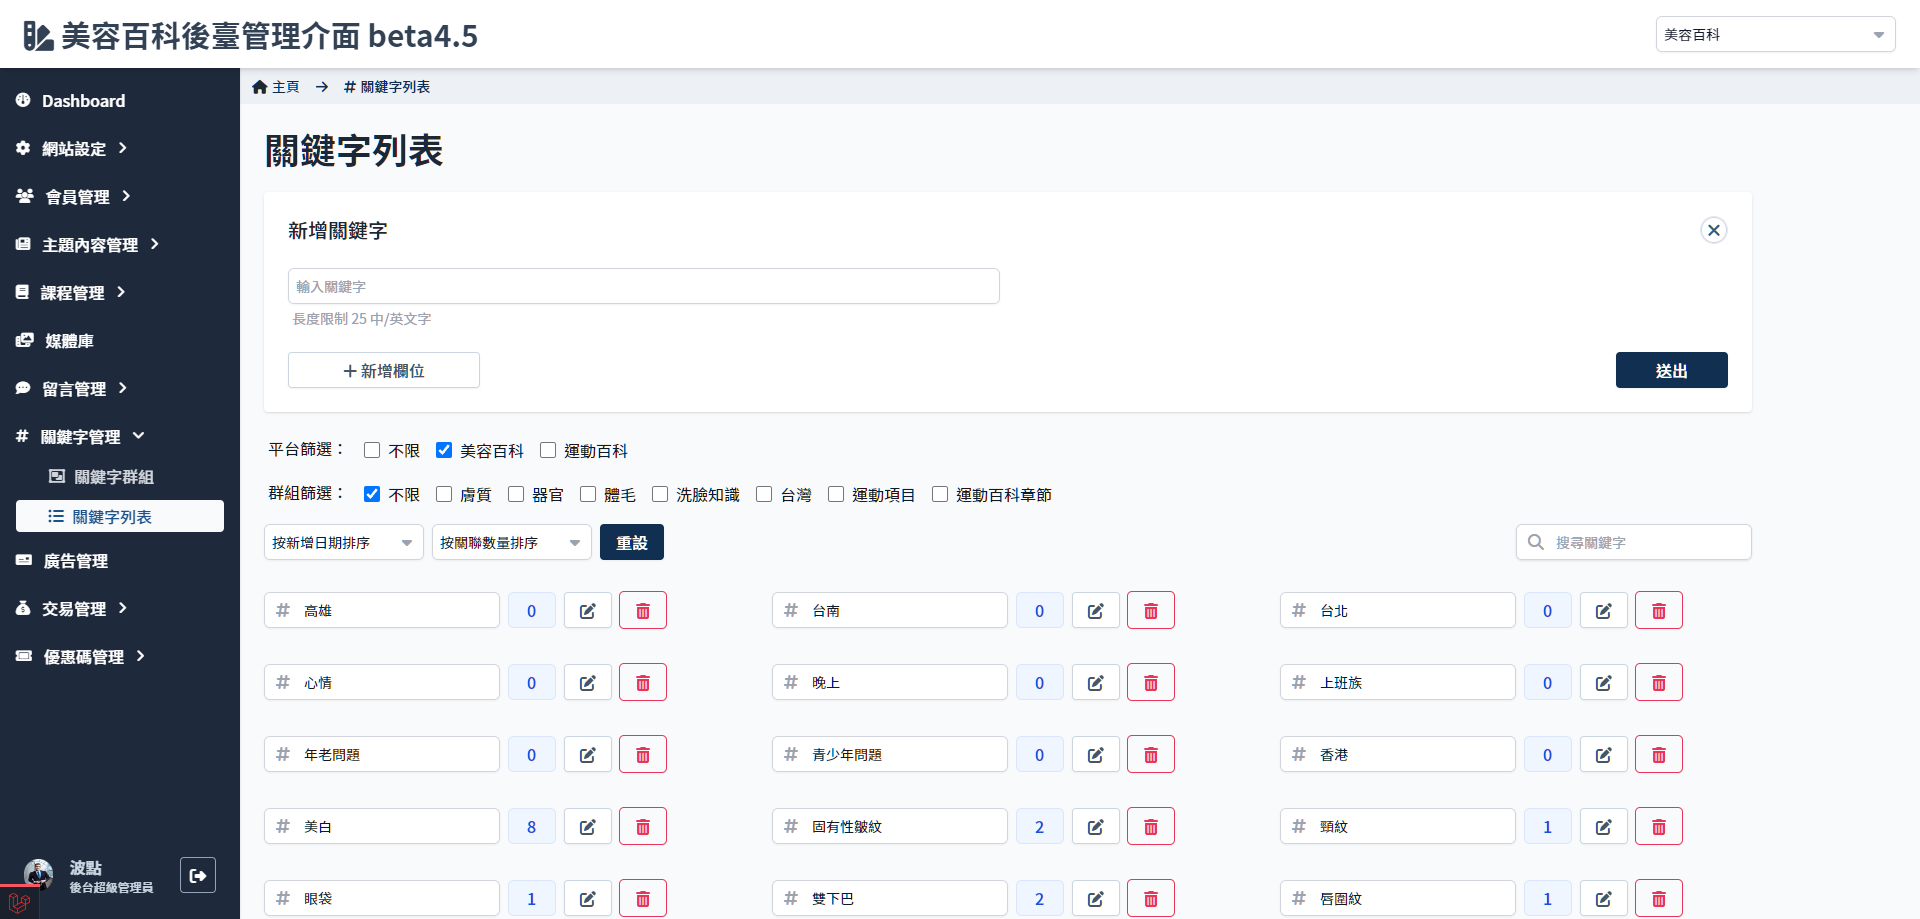
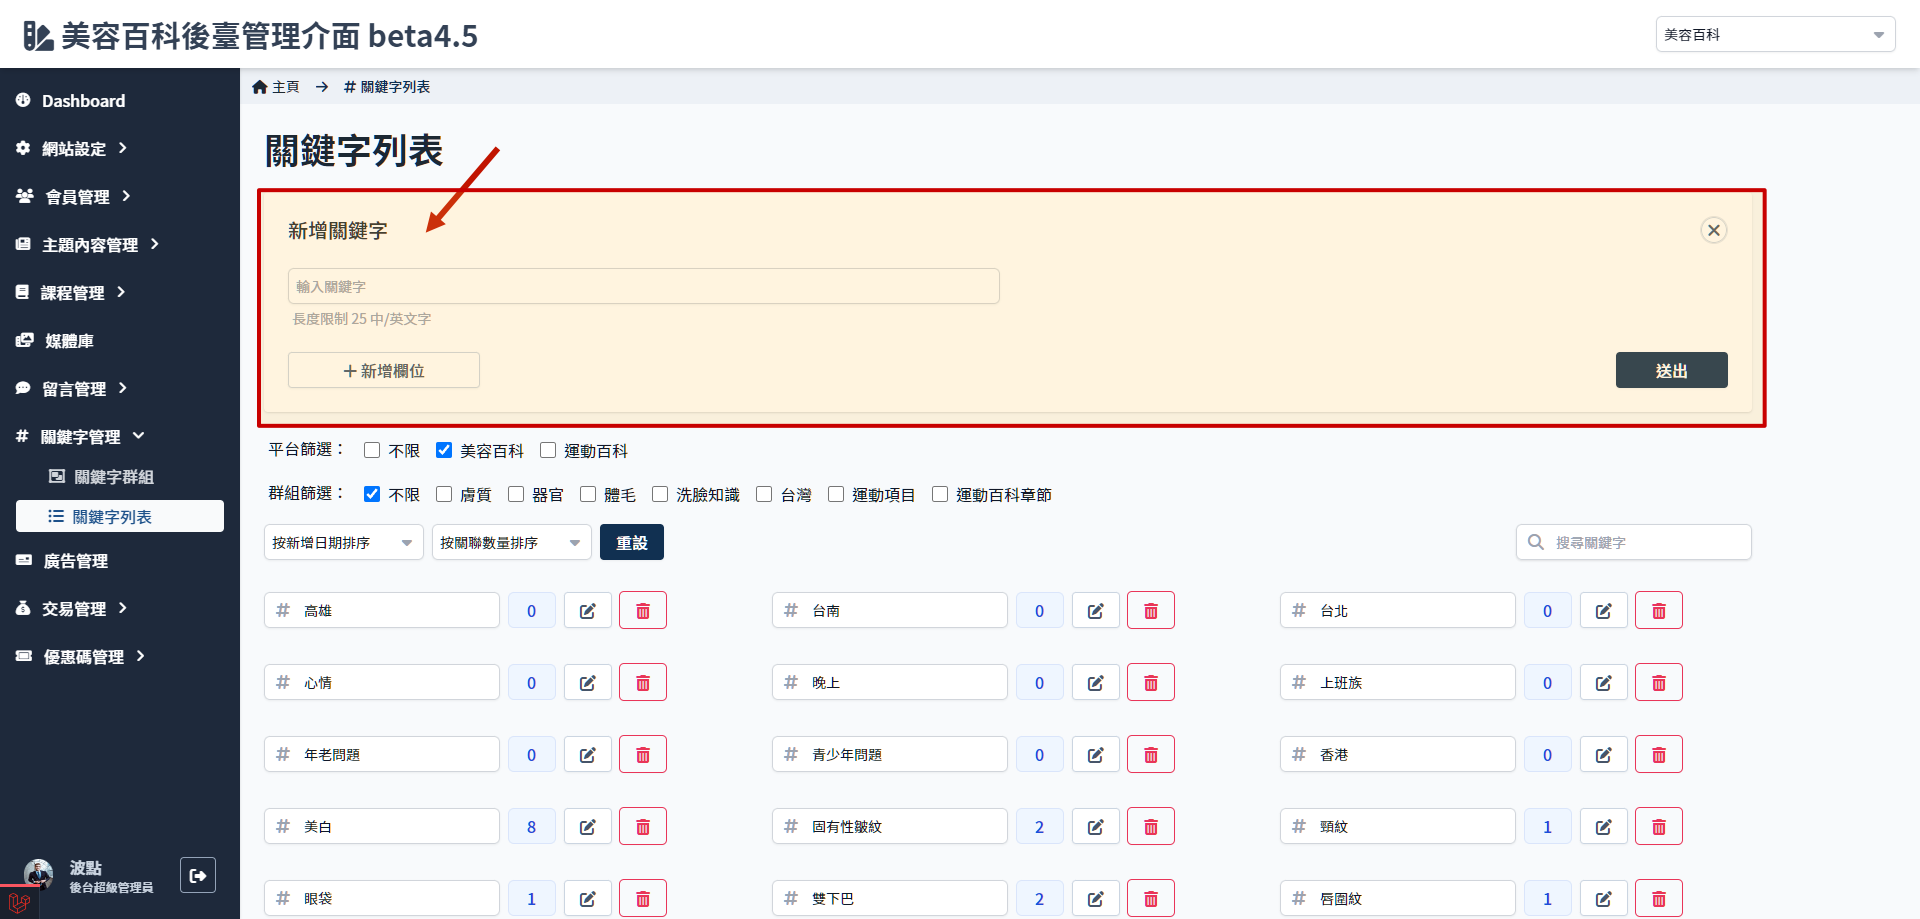
add keyword

Changed region(s): [[0.125, 0.1523, 0.9375, 0.4875]]

diff --git a/docs/beauty/keyword/edit-keyword.md b/docs/beauty/keyword/edit-keyword.md
@@ -1,6 +1,22 @@
 ---
 title: 編輯關鍵字名稱
-sidebar_position: 2.2
+sidebar_position: 1.2
 ---
 
 # 編輯關鍵字名稱
+
+可隨時編輯修改關鍵字名稱，但名稱不可重複。
+
+1. 進入關鍵字列表，點擊 `編輯`
+   ![編輯關鍵字名稱](img/edit-keyword-01.png)
+
+2. 修改名稱
+   ![編輯關鍵字名稱](img/edit-keyword-02.png)
+
+3. 點擊 `保存`，系統會判斷是否與現有關鍵字有重複
+
+    3.1 若編輯後的名稱有重複，會儲存失敗，回復成修改前
+    ![編輯關鍵字名稱](img/edit-keyword-error.png)
+
+    3.2 檢測無重複，即變更成功
+    ![編輯關鍵字名稱](img/edit-keyword-success.png)

diff --git a/docs/beauty/keyword/how-to-add-keywords.md b/docs/beauty/keyword/how-to-add-keywords.md
@@ -5,8 +5,22 @@ sidebar_position: 1.1
 
 # 如何新增關鍵字
 
-<!-- TODO 補圖片 -->
-
 1. 進入關鍵字列表
+
+    ![關鍵字列表](img/keyword-list-01.png)
+
 2. 點擊右上，新增關鍵字
-3. 沒有重複關鍵字即會顯示新增成功
+
+    ![關鍵字列表](img/keyword-list-02.png)
+
+3. 出現填寫關鍵字欄位
+
+    ![新增關鍵字欄位](img/add-keyword.png)
+
+4. 點擊 `送出`，系統檢查沒有重複關鍵字即新增成功
+
+    ![新增關鍵字成功](img/add-keyword-success.png)
+
+    :::warning
+    如果同時新增多個關鍵字，只要有一個關鍵字重複即無法送出！
+    :::

diff --git a/docs/beauty/keyword/can-i-delete-keyword.md b/docs/beauty/keyword/can-i-delete-keyword.md
@@ -1,6 +1,19 @@
 ---
 title: 關鍵字可以刪除嗎
-sidebar_position: 2.3
+sidebar_position: 1.3
 ---
 
 # 關鍵字可以刪除嗎
+
+:::danger 沒有任何關聯的關鍵字才可以刪除
+:::
+
+## 刪除關鍵字的步驟
+
+1. 進入關鍵字關聯列表
+
+    ![關聯](img/show-related-02.png)
+
+2. 個別點選進文章及圖片內，調整關鍵字設定
+
+    > 參考[如何修改文章內容](../content/how-to-edit-article.md)，[如何修改媒體內容](../media/)

diff --git a/docs/beauty/keyword/view-keyword-related-list.md b/docs/beauty/keyword/view-keyword-related-list.md
@@ -1,6 +1,14 @@
 ---
 title: 檢視關鍵字的關聯列表
-sidebar_position: 2.1
+sidebar_position: 1.4
 ---
 
 # 檢視關鍵字的關聯列表
+
+檢視有設定此關鍵字的全部文章、媒體。
+
+1. 點擊關聯數量
+   ![關聯](img/show-related-01.png)
+
+2. 檢視關聯列表
+   ![關聯](img/show-related-02.png)

diff --git a/docs/beauty/content/how-to-add-article.md b/docs/beauty/content/how-to-add-article.md
@@ -28,7 +28,7 @@ sidebar_position: 3.1
 
 檢查文章內關鍵字是否都已新增至關鍵字列表。
 
-![關鍵字列表](../keyword/img/keyword-list.png)
+![關鍵字列表](../keyword/img/keyword-list-01.png)
 
 ## 新增文章
 

diff --git a/docs/beauty/media/edit-media.md b/docs/beauty/media/edit-media.md
@@ -1,0 +1,6 @@
+---
+title: 如何修改媒體內容資料
+sidebar_position: 2.2
+---
+
+# 如何修改媒體內容資料

diff --git a/docs/beauty/media/how-to-add-img.md b/docs/beauty/media/how-to-add-img.md
@@ -1,5 +1,6 @@
 ---
 title: 如何新增圖片到媒體庫
+sidebar_position: 2.1
 ---
 
 # 如何新增圖片到媒體庫

diff --git a/docs/beauty/media/delete-media-forever.md b/docs/beauty/media/delete-media-forever.md
@@ -1,6 +1,6 @@
 ---
 title: 永久刪除媒體
-sidebar_position: 4
+sidebar_position: 2.4
 ---
 
 # 永久刪除媒體

diff --git a/docs/beauty/keyword/how-to-set-keyword-group.md b/docs/beauty/keyword/how-to-set-keyword-group.md
@@ -1,0 +1,6 @@
+---
+title: 如何設定關鍵字群組
+sidebar_position: 2.1
+---
+
+# 如何設定關鍵字群組

diff --git a/docs/beauty/media/how-to-add-media-category.md b/docs/beauty/media/how-to-add-media-category.md
@@ -1,0 +1,6 @@
+---
+title: 如何新增媒體類別
+sidebar_position: 1.1
+---
+
+# 如何新增媒體類別

diff --git a/docs/beauty/media/media-manage.md b/docs/beauty/media/media-manage.md
@@ -1,0 +1,6 @@
+---
+title: 管理媒體狀態
+sidebar_position: 2.3
+---
+
+# 管理媒體狀態

diff --git a/docs/beauty/media/media-status.md b/docs/beauty/media/media-status.md
@@ -1,0 +1,6 @@
+---
+title: 媒體狀態說明
+sidebar_position: 0
+---
+
+# 媒體狀態說明
